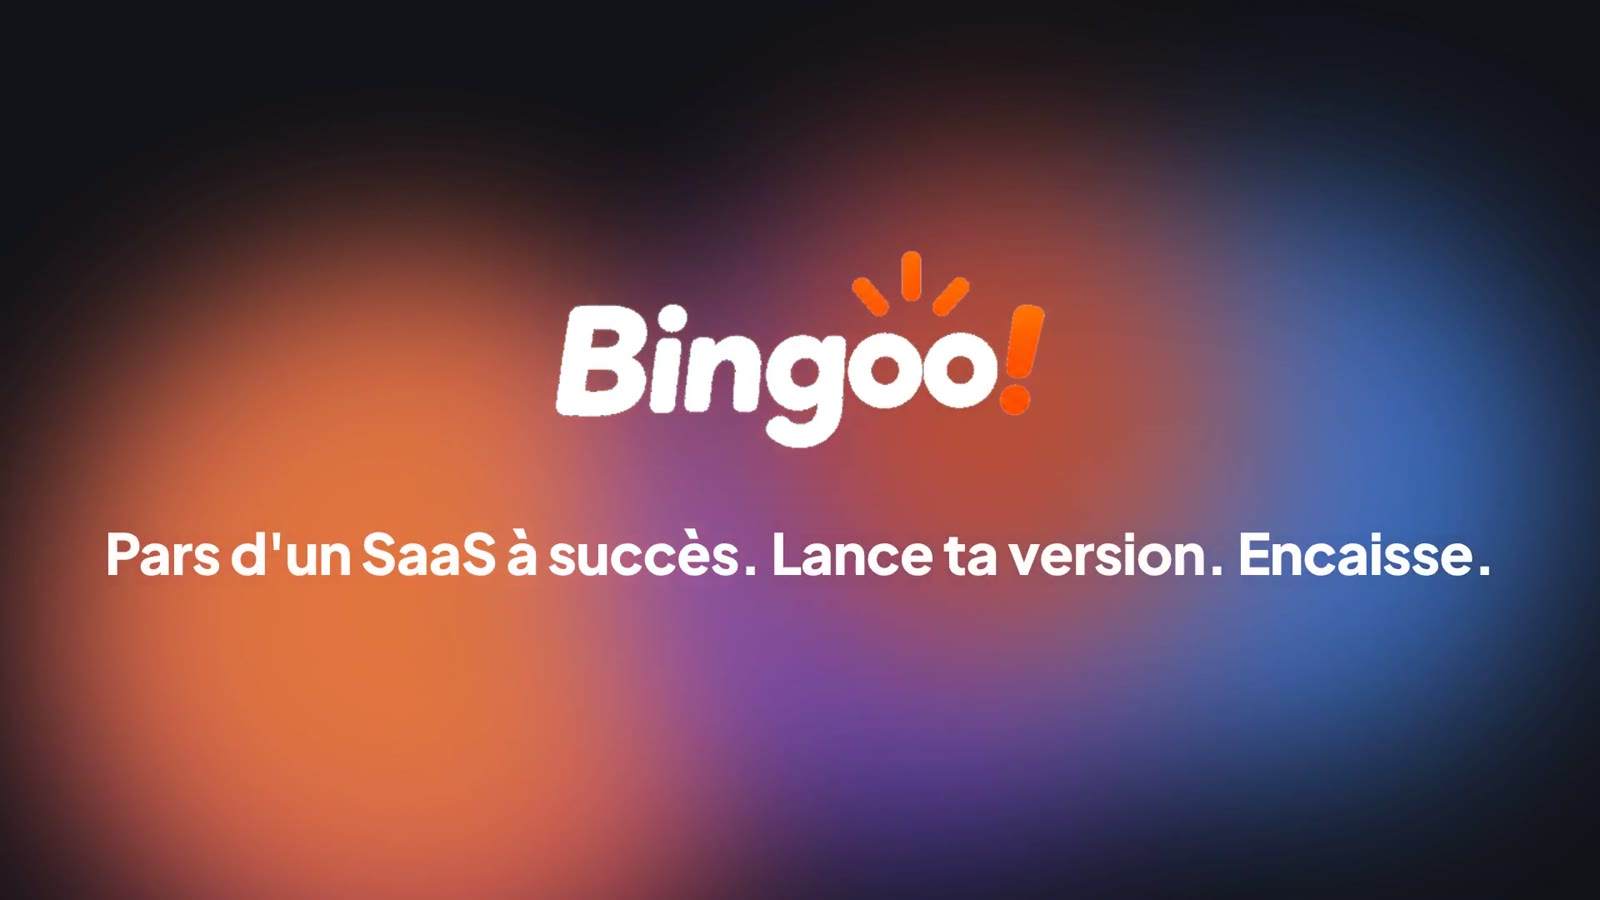
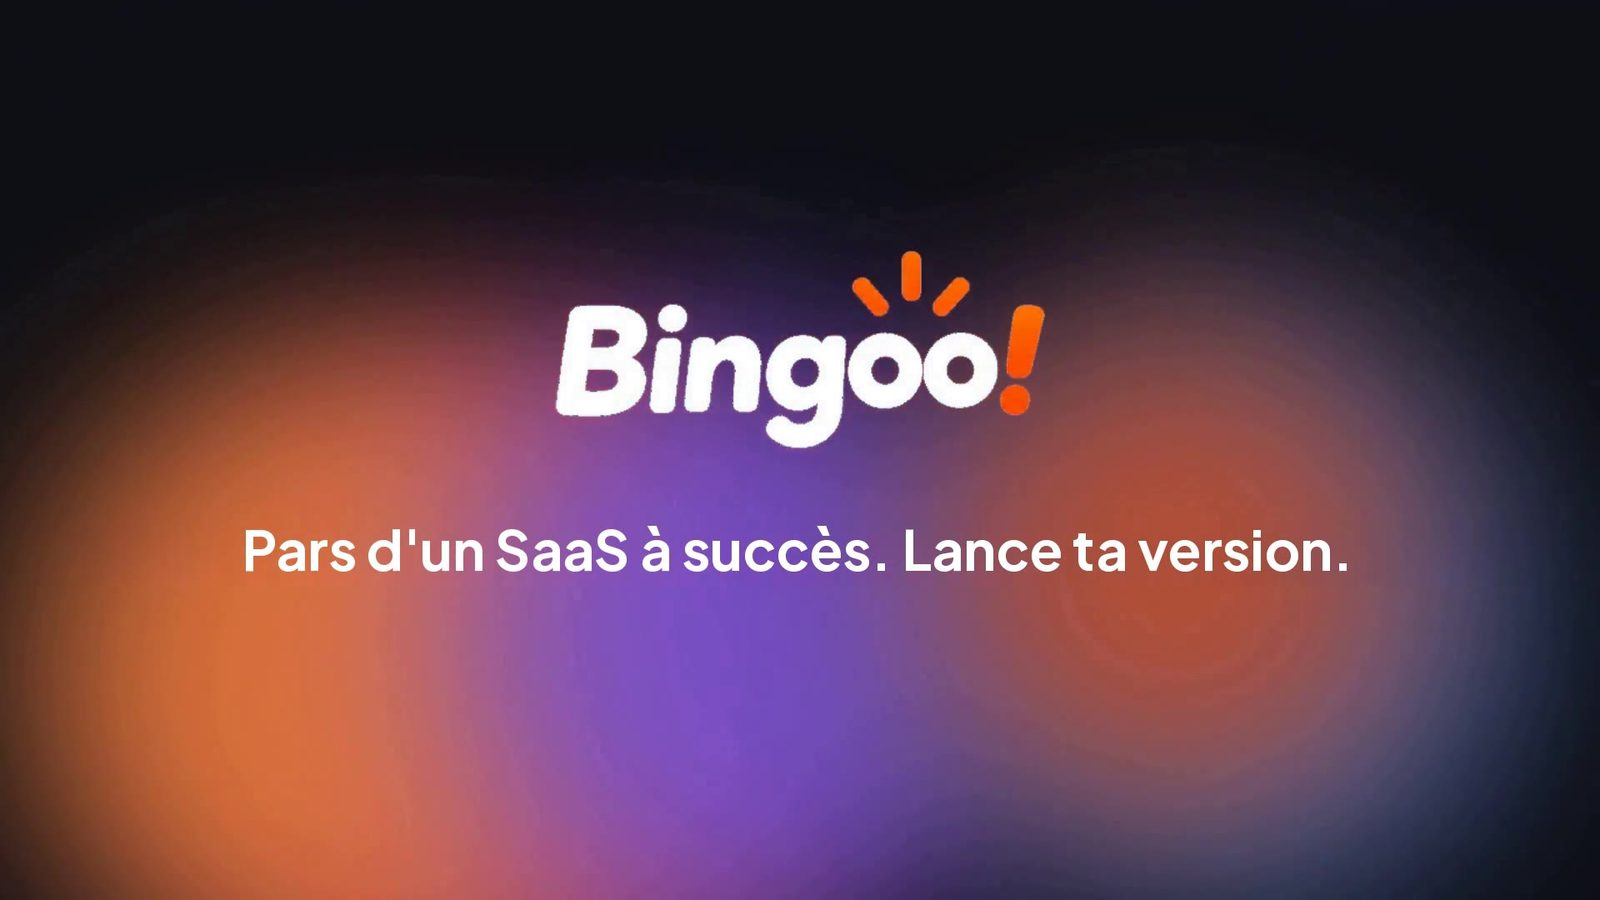
Accueil : aperçu du film sans « Encaisse » ; Trouver mon SaaS : titre, bouton et cartes corrigés
- L'image d'aperçu du film de lancement montrait encore l'ancienne fin.
- « 2 SaaS ia gagnent… » devient « 2 SaaS gagnent déjà de l'argent ».
- « Débloquer les 1 autres » devient « Débloquer l'autre ».
- Cartes de secteurs : deux logos au lieu de trois, le nom n'est plus coupé.
- Bloc difficulté : le libellé ne déborde plus sur « Trafic ».

Claude-Session: https://claude.ai/code/session_01VPSS7krG8SqX7aRkfpBTYq

diff --git a/src/pages/Explorer.jsx b/src/pages/Explorer.jsx
@@ -2909,8 +2909,8 @@ export function TrouveTonSaas() {
                 <Jauge valeur={r.objectif ?? OBJ_DEFAUT} onChange={(v) => setR({ ...r, objectif: v })} />
               ) : Q.secteurs ? (
                 <div className="mt-9 grid sm:grid-cols-2 lg:grid-cols-1 xl:grid-cols-2 gap-3">{SECTEURS.map((c) => { const st = statsSect?.[c]; const on = choisi("secteurs", c); return (
-                  <button key={c} type="button" onClick={() => basculer("secteurs", c)} className={cx("flex items-center gap-4 rounded-3xl border bg-white px-4 py-4 text-left shadow-[0_1px_2px_rgba(16,24,40,.04)] transition hover:-translate-y-0.5 hover:shadow-[0_20px_40px_-28px_rgba(21,23,42,.45)]", on ? "border-transparent ring-2 ring-accent" : "border-line")}>
-                    <span className="flex shrink-0 -space-x-4">{(st?.logos ?? []).slice(0, 3).map((d, i) => <span key={d} className="grid h-11 w-11 place-items-center overflow-hidden rounded-xl border-2 border-white bg-white shadow-sm" style={{ zIndex: 3 - i }}><CompanyLogo name={d} url={`https://${d}`} className="h-full w-full" pad="p-1" /></span>)}{!st?.logos?.length && <span className="h-12 w-12 rounded-xl bg-paper" />}</span>
+                  <button key={c} type="button" onClick={() => basculer("secteurs", c)} className={cx("flex items-center gap-3 rounded-3xl border bg-white px-4 py-4 text-left shadow-[0_1px_2px_rgba(16,24,40,.04)] transition hover:-translate-y-0.5 hover:shadow-[0_20px_40px_-28px_rgba(21,23,42,.45)]", on ? "border-transparent ring-2 ring-accent" : "border-line")}>
+                    <span className="flex shrink-0 -space-x-4">{(st?.logos ?? []).slice(0, 2).map((d, i) => <span key={d} className="grid h-11 w-11 place-items-center overflow-hidden rounded-xl border-2 border-white bg-white shadow-sm" style={{ zIndex: 3 - i }}><CompanyLogo name={d} url={`https://${d}`} className="h-full w-full" pad="p-1" /></span>)}{!st?.logos?.length && <span className="h-12 w-12 rounded-xl bg-paper" />}</span>
                     <span className="min-w-0 flex-1"><span className="block font-bold text-[15.5px] leading-tight line-clamp-2">{c}</span>
                       <span className="mt-0.5 block text-[13.5px] text-ink-soft">{st ? `${Number(st.n).toLocaleString("fr-FR")} SaaS` : "…"}</span>
                       {st?.top ? <span className="block whitespace-nowrap text-[13.5px] font-bold text-good">n°1 · {dollar(st.top)}/mois</span> : null}</span>
@@ -2944,7 +2944,7 @@ export function TrouveTonSaas() {
         <div>
           <div className="text-center">
             <div>
-              <h1 className="text-[32px] sm:text-[44px] font-black leading-tight tracking-tight" style={HF}>{debloque ? ((res ?? []).slice(0, 3).every((x) => Number(x.croissance) > 0) ? "Tes 3 SaaS en tendance" : "Tes 3 SaaS") : ap?.n ? `${Number(ap.n).toLocaleString("fr-FR")} SaaS${r.secteurs?.length === 1 ? ` ${r.secteurs[0].split(" ")[0].toLowerCase()}` : ""} gagnent déjà de l'argent` : "Tes SaaS à succès"}</h1>
+              <h1 className="text-[32px] sm:text-[44px] font-black leading-tight tracking-tight" style={HF}>{debloque ? ((res ?? []).slice(0, 3).every((x) => Number(x.croissance) > 0) ? "Tes 3 SaaS en tendance" : "Tes 3 SaaS") : ap?.n ? `${Number(ap.n).toLocaleString("fr-FR")} SaaS gagne${Number(ap.n) > 1 ? "nt" : ""} déjà de l'argent` : "Tes SaaS à succès"}</h1>
               <p className="mx-auto mt-2 max-w-2xl text-[15px] text-ink-soft">{debloque ? `Ils encaissent déjà, vérifié chez leur outil de paiement${(res ?? []).slice(0, 3).every((x) => Number(x.croissance) > 0) ? ", leur revenu monte en ce moment," : ","} et ils trouvent leurs clients comme tu veux le faire.` : "Ils encaissent déjà, vérifié chez leur outil de paiement, et ils trouvent leurs clients comme tu veux le faire. Choisis celui que tu veux lancer."}</p>
             </div>
           </div>
@@ -3143,7 +3143,7 @@ function CarteClaire({ x, onLancer, busy }) {
         {x.sans_local && <span className="rounded-full bg-accent-soft px-2.5 py-1 text-[12px] font-semibold text-accent-dark">Pas d'équivalent en français</span>}
       </div>
       <div className="mt-4 grid grid-cols-3 gap-2 rounded-2xl border border-line p-3">
-        <div className="flex flex-col items-start gap-1.5 sm:flex-row sm:items-center sm:gap-2.5"><span className="grid h-11 w-11 sm:h-12 sm:w-12 shrink-0 place-items-center rounded-full border-[3px] border-accent text-[16px] font-black tnum" style={HF}>{x.copiable != null ? Math.max(1, Math.min(10, Math.round(10 - x.copiable / 10))) : "–"}</span><span className="text-[11px] font-bold uppercase leading-tight tracking-wide text-ink-faint">Difficulté<br /><span className="normal-case font-normal">sur 10</span></span></div>
+        <div className="flex min-w-0 flex-col items-start gap-1.5"><span className="grid h-11 w-11 sm:h-12 sm:w-12 shrink-0 place-items-center rounded-full border-[3px] border-accent text-[16px] font-black tnum" style={HF}>{x.copiable != null ? Math.max(1, Math.min(10, Math.round(10 - x.copiable / 10))) : "–"}</span><span className="text-[11px] font-bold uppercase leading-tight tracking-wide text-ink-faint">Difficulté<br /><span className="normal-case font-normal">sur 10</span></span></div>
         <div className="min-w-0"><p className="text-[11px] font-bold uppercase tracking-wide text-ink-faint">Trafic</p><p className="mt-1 text-[15px] font-black tnum" style={HF}>{x.rang_web ? `N° ${Number(x.rang_web).toLocaleString("fr-FR")}` : "faible"}</p><p className="text-[11px] text-ink-faint">mondial</p></div>
         <div className="min-w-0"><p className="text-[11px] font-bold uppercase tracking-wide text-ink-faint"><span className="sm:hidden">Revenu</span><span className="hidden sm:inline">Revenu mensuel</span></p>{Array.isArray(x.courbe) && x.courbe.length > 2 ? <Sparkline pts={x.courbe.filter((p) => p.m !== new Date().toISOString().slice(0, 7)).slice(-8).map((p) => ({ n: Number(p.v) || 0 }))} h={34} /> : <p className="mt-1 text-[15px] font-black tnum" style={HF}>{dollar(x.mrr)}</p>}</div>
       </div>
@@ -3195,7 +3195,7 @@ function Debloquer({ total, tendance, mediane, invite, r }) {
       </div>
       <div className="flex flex-wrap gap-2">
         <button onClick={() => (invite ? demanderCompte("Crée ton compte gratuit pour explorer les SaaS qui marchent.") : nav("/explorer"))} className="rounded-xl border border-line bg-white px-5 py-3.5 font-bold hover:border-ink">Explorer gratuitement</button>
-        <button onClick={debloquer} disabled={busy} className="fx-brille rounded-xl bg-accent text-white px-6 py-3.5 font-bold hover:bg-accent-dark disabled:opacity-60">{liste?.length > 1 ? `Débloquer les ${Math.max(liste.length, Number(total || 0)) - 1} autres` : "Débloquer mes résultats"}</button>
+        <button onClick={debloquer} disabled={busy} className="fx-brille rounded-xl bg-accent text-white px-6 py-3.5 font-bold hover:bg-accent-dark disabled:opacity-60">{liste?.length > 1 ? (Math.max(liste.length, Number(total || 0)) - 1 > 1 ? `Débloquer les ${Math.max(liste.length, Number(total || 0)) - 1} autres` : "Débloquer l'autre") : "Débloquer mes résultats"}</button>
       </div>
     </div></div>
   );
